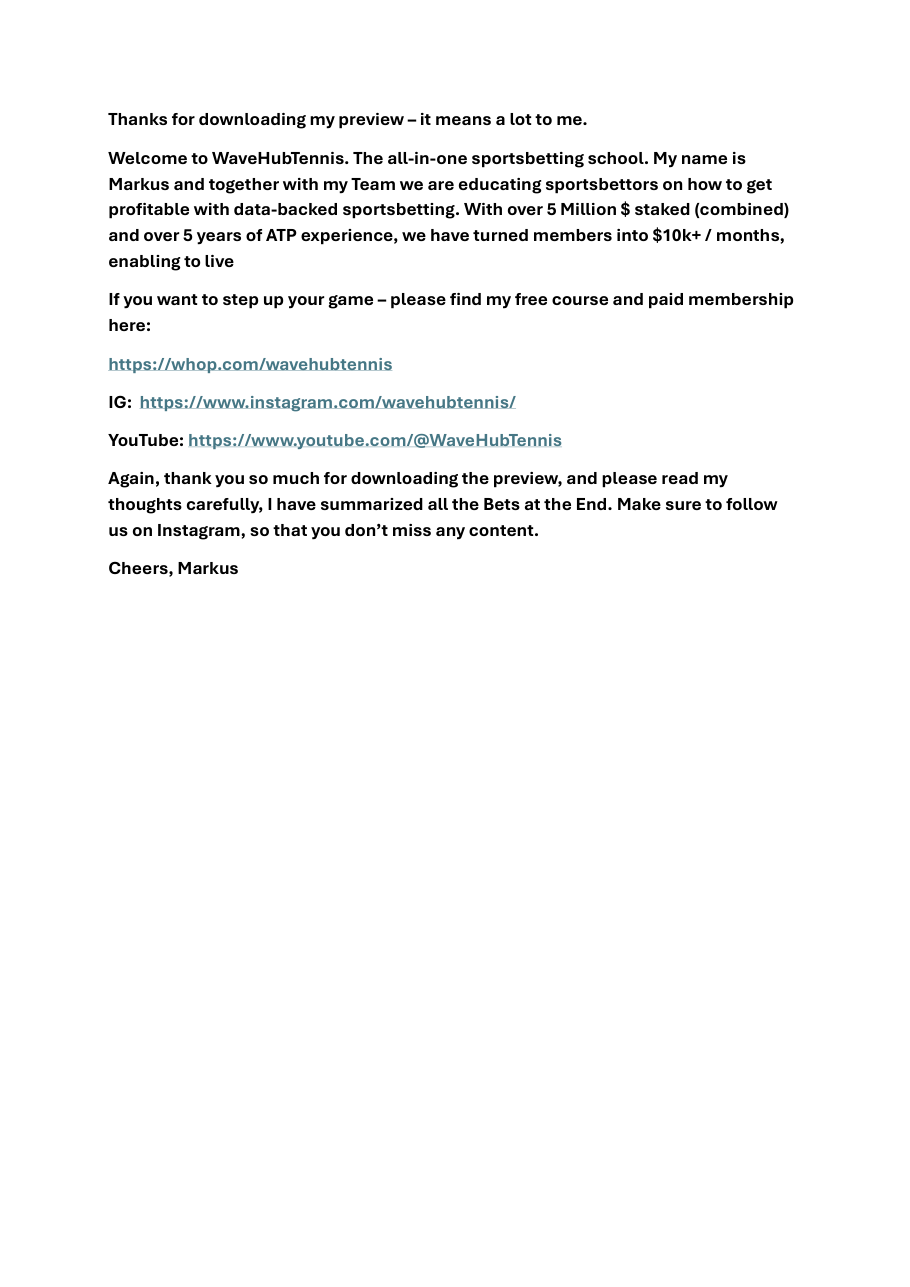
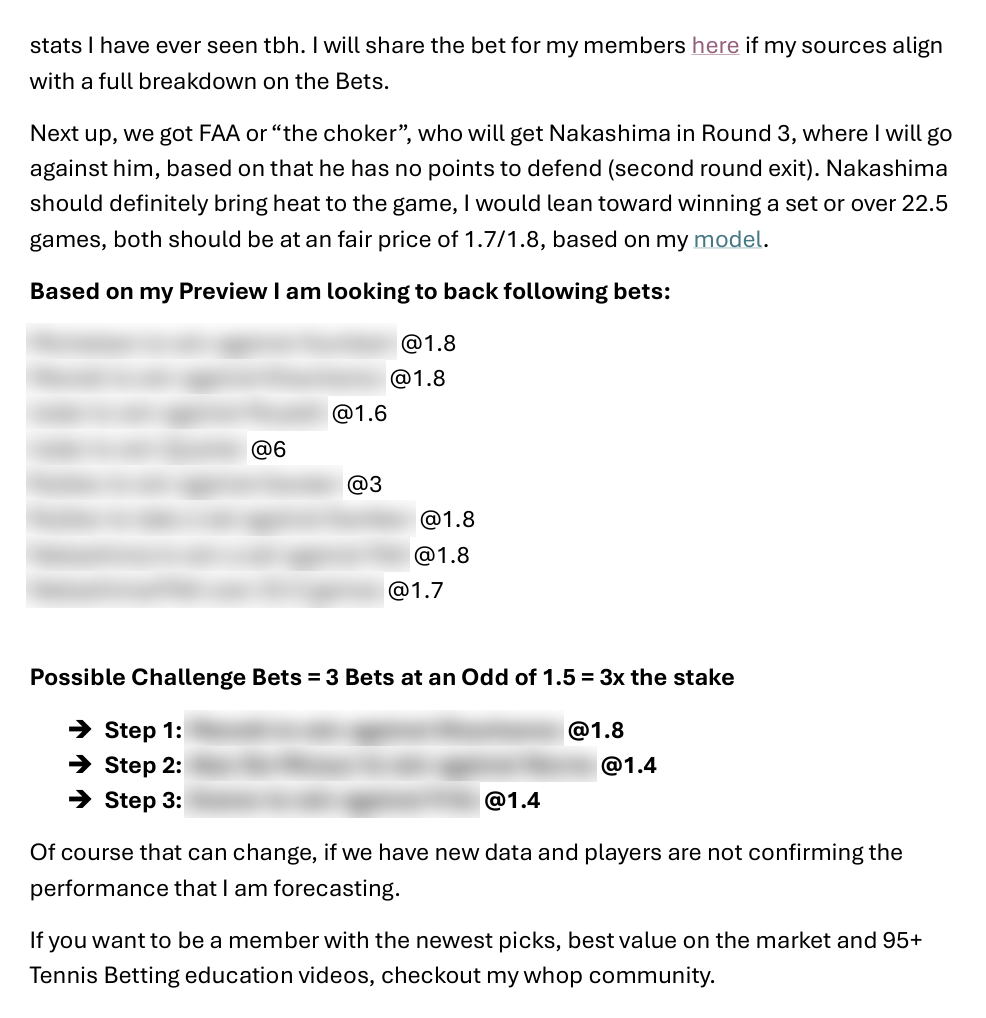
Cover: teaser from page 8 with the selections blurred, odds left readable
Renders the picks page and blurs each bet's selection up to its odds token,
so the prices stay visible and the names do not — the curiosity gap the
follow/email gate trades on. Auto-crops to the text content. Reusable per
tournament: python make_cover.py <pdf> <page> <out.png>

Changed region(s): [[0.0308, 0.0305, 0.9846, 0.609], [0.0308, 0.6395, 0.9231, 0.8831], [0.0308, 0.9136, 0.9231, 0.9745]]

diff --git a/assets/previews/make_cover.py b/assets/previews/make_cover.py
@@ -1,0 +1,70 @@
+# -*- coding: utf-8 -*-
+"""
+Teaser cover for a tournament preview PDF.
+
+Renders one page and blurs the SELECTION part of every bet line while leaving
+the odds (@1.8, @6, ...) readable — the curiosity gap that makes the gate work.
+
+Usage:  python make_cover.py canada.pdf 8 canada-cover.png
+"""
+import sys, fitz
+from PIL import Image, ImageFilter
+
+PDF   = sys.argv[1] if len(sys.argv) > 1 else "canada.pdf"
+PAGE  = int(sys.argv[2]) if len(sys.argv) > 2 else 8      # 1-based
+OUT   = sys.argv[3] if len(sys.argv) > 3 else "canada-cover.png"
+DPI   = 150
+BLUR  = 9          # gaussian radius in px
+PAD   = 1.5        # pt of padding around each blurred run
+
+doc = fitz.open(PDF)
+page = doc[PAGE - 1]
+scale = DPI / 72.0
+
+pix = page.get_pixmap(dpi=DPI)
+img = Image.frombytes("RGB", (pix.width, pix.height), pix.samples)
+
+# group words into lines
+words = sorted(page.get_text("words"), key=lambda w: (round(w[1], 1), w[0]))
+lines = {}
+for w in words:
+    lines.setdefault(round(w[1], 1), []).append(w)
+
+rects = []
+for y, ws in lines.items():
+    ws.sort(key=lambda w: w[0])
+    # a bet line = one that carries an odds token like "@1.8" / "@6"
+    odds = [w for w in ws if w[4].startswith("@")]
+    if not odds:
+        continue
+    at = odds[0]
+    # blur from the first word up to just before the odds token.
+    # keep a leading label such as "Step 1:" readable.
+    start = ws[0]
+    if ws[0][4].lower().startswith("step") and len(ws) > 2:
+        start = ws[2]
+    x0, x1 = start[0] - PAD, at[0] - PAD
+    y0 = min(w[1] for w in ws) - PAD
+    y1 = max(w[3] for w in ws) + PAD
+    if x1 - x0 > 8:
+        rects.append((x0, y0, x1, y1))
+
+for (x0, y0, x1, y1) in rects:
+    box = (int(x0 * scale), int(y0 * scale), int(x1 * scale), int(y1 * scale))
+    region = img.crop(box).filter(ImageFilter.GaussianBlur(BLUR))
+    img.paste(region, box)
+
+# crop away empty margins so the card shows content, not white space
+blocks = [b for b in page.get_text("blocks") if b[4].strip()]
+if blocks:
+    m = 14  # pt margin
+    cx0 = max(0, min(b[0] for b in blocks) - m)
+    cy0 = max(0, min(b[1] for b in blocks) - m)
+    cx1 = min(page.rect.width, max(b[2] for b in blocks) + m)
+    cy1 = min(page.rect.height, max(b[3] for b in blocks) + m)
+    img = img.crop((int(cx0 * scale), int(cy0 * scale),
+                    int(cx1 * scale), int(cy1 * scale)))
+
+img.save(OUT)
+print("wrote %s  (%dx%d, page %d, %d bet lines blurred)"
+      % (OUT, img.width, img.height, PAGE, len(rects)))
